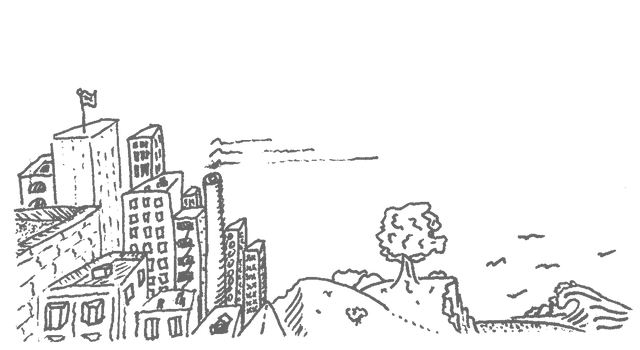
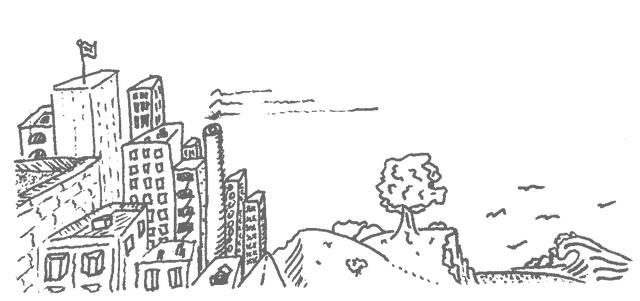
reduce sketch height

diff --git a/index.html b/index.html
@@ -45,7 +45,7 @@
         </tr>
       </table>
     </div>
-    <div id="sketch"><img alt="sketch" width="500" height="273"
+    <div id="sketch"><img alt="sketch" width="500"
                           src="sketch.png"></div>
     <div id="source"><a href="https://github.com/siznax/www"
             title="View Source">
